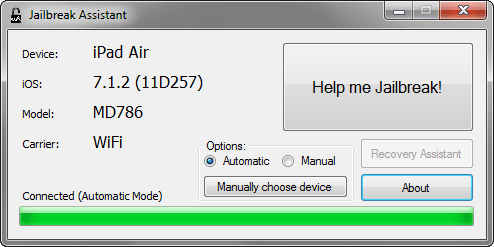
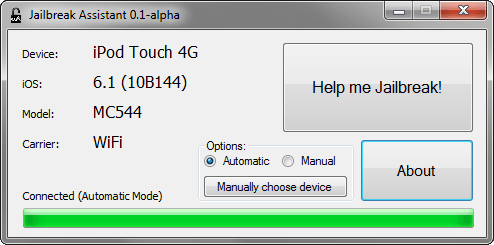
version 0.1-alpha of jailbreak assistant released

diff --git a/index.html b/index.html
@@ -17,13 +17,10 @@
 			<div class="wrap">
 				<div class="left info" style="margin-top:10px">
 					<h1>Jailbreak Assistant</h1>
-					<p>A jailbreak assistant for Windows which tells you what jailbreak software to use just by plugging your iDevice in!</p>
+					<p>A jailbreak assistant for Windows that tells you what jailbreak software to use just by plugging your iDevice in!</p>
 					<p>Supports iOS 6 and above.</p>
-					<p>Latest Version: WIP</p>
-					<a class="grayed" style='-moz-user-select: none; -webkit-user-select: none; -ms-user-select:none; user-select:none;' 
- unselectable='on'
- onselectstart='return false;' 
- onmousedown='return false;'>Download (Executable)</a>
+					<p>Latest Version: 0.1-alpha</p>
+					<a class="button" href="https://github.com/outofink/jailbreak-assistant/releases">Download (Executable)</a>
 					<a class="button" href="https://github.com/outofink/jailbreak-assistant">Download (Source)</a>
 				</div>
 				<img class="right preview" src="./img/ja.png" alt="">
